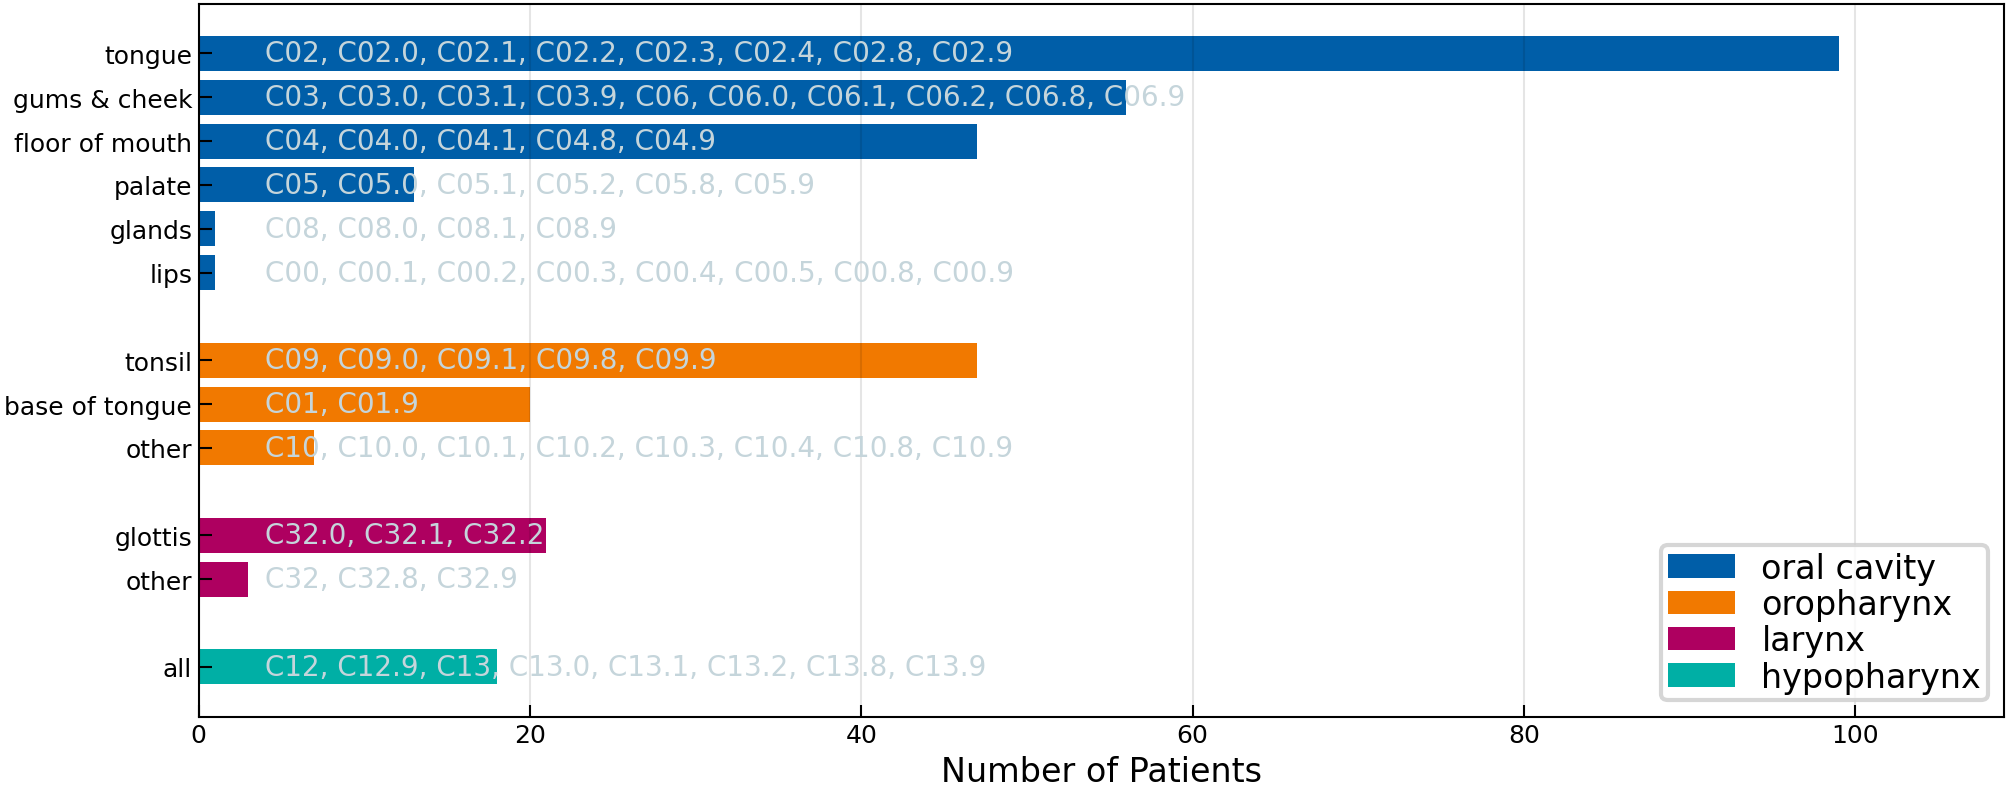
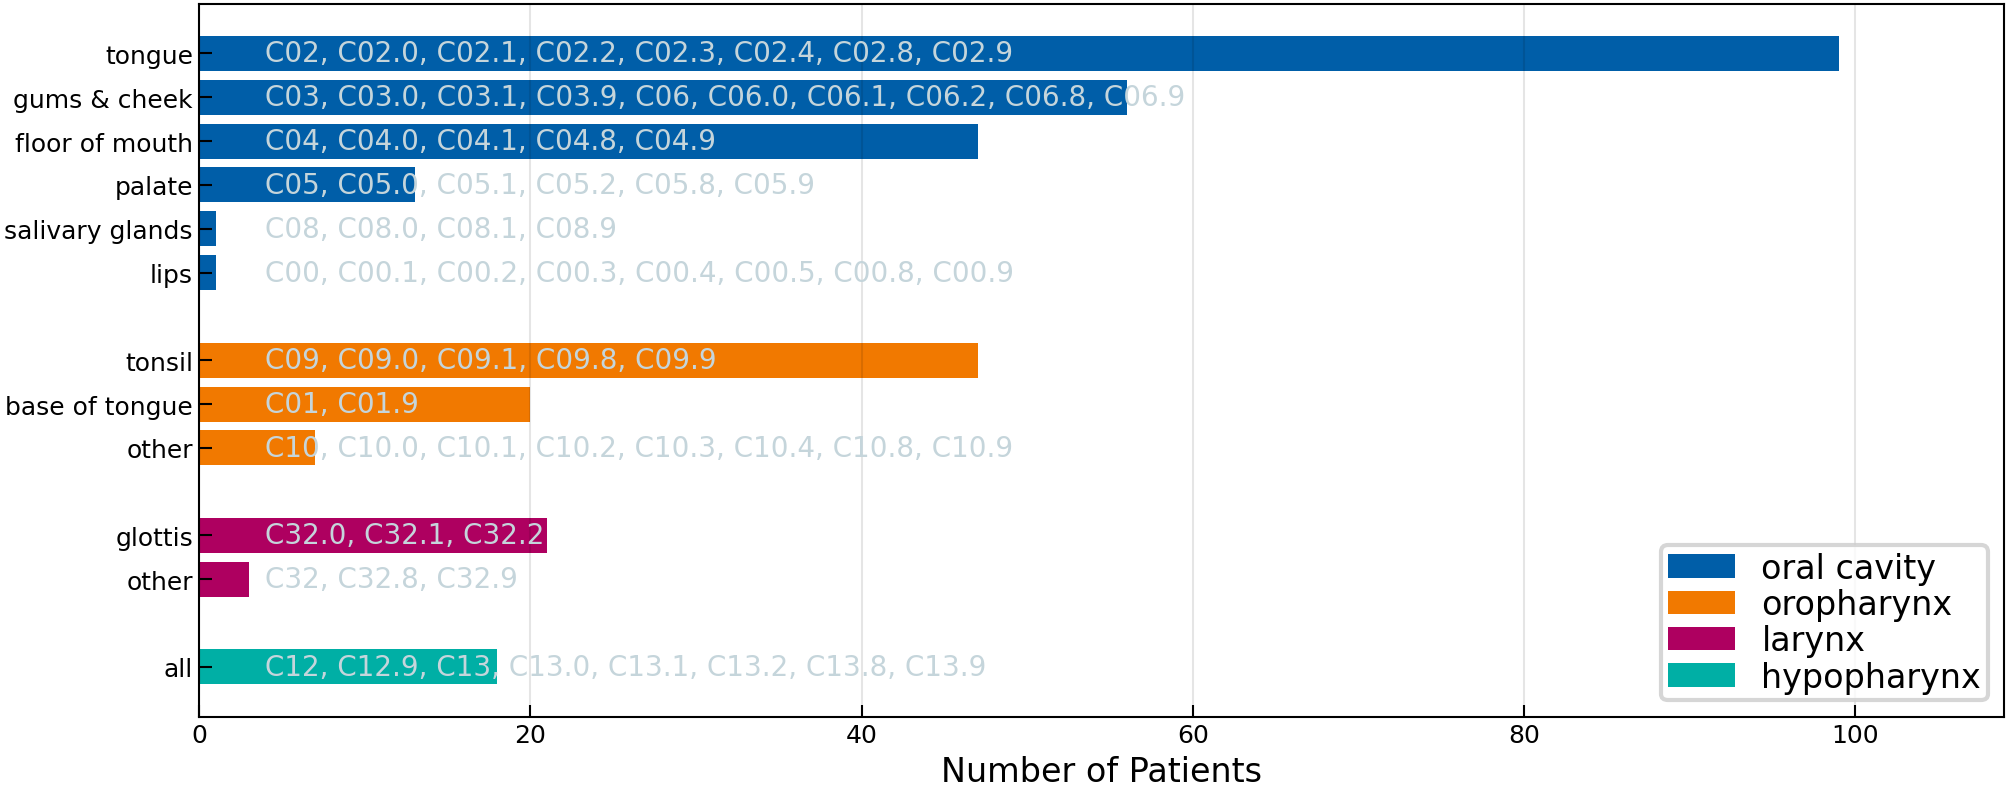
adapt scenario showcase

diff --git a/scripts/scenario_showcase.py b/scripts/scenario_showcase.py
@@ -12,7 +12,7 @@ from tueplots import figsizes, fontsizes
 
 from lyscripts.plot.utils import COLORS
 
-from subsite import INVERTED_FLAT_SUBSITE_DICT
+from subsite import INVERTED_FLAT_SUBSITE_DICT, SUBSITE_DICT
 
 
 def get_idx(df: pd.DataFrame, location: str) -> pd.Series:
@@ -23,7 +23,7 @@ def get_idx(df: pd.DataFrame, location: str) -> pd.Series:
 
 
 OUTPUT_PATH = Path(__file__).parent.parent / Path(__file__).with_suffix(".png").name
-NROWS, NCOLS = 3, 1
+NROWS, NCOLS = 2, 1
 COLORS = [COLORS["green"], COLORS["blue"], COLORS["orange"], COLORS["red"]]
 
 
@@ -48,50 +48,89 @@ if __name__ == "__main__":
 
     data = pd.read_csv(args.data, header=[0, 1, 2])
     ipsi_involvement = data["max_llh", "ipsi"]
+    icd_codes = data["tumor", "1", "subsite"]
 
     has_II_involved = ipsi_involvement["II"] == True
     has_III_involved = ipsi_involvement["III"] == True
     is_t_stage = lambda t: data["tumor", "1", "t_stage"] == t
     is_location = lambda loc: get_idx(data, loc)
+    is_gums_and_cheek = icd_codes.isin(SUBSITE_DICT["oral cavity"]["gums & cheek"])
+    is_tongue = icd_codes.isin(SUBSITE_DICT["oral cavity"]["tongue"])
 
-    for i, loc in enumerate(["oropharynx", "oral cavity", "hypopharynx"]):
-        starts = np.zeros(3, dtype=int)
-        nums = np.zeros(3, dtype=int)
-        totals = np.array([
-            is_location(loc).sum(),
-            (is_location(loc) & has_II_involved).sum(),
-            (is_location(loc) & ~has_II_involved).sum(),
+    loc = "oropharynx"
+    starts = np.zeros(3, dtype=int)
+    nums = np.zeros(3, dtype=int)
+    totals = np.array([
+        (is_location(loc) & ~is_t_stage(0)).sum(),
+        (is_location(loc) & ~is_t_stage(0) & has_II_involved).sum(),
+        (is_location(loc) & ~is_t_stage(0) & ~has_II_involved).sum(),
+    ])
+    for t in [1, 2, 3, 4]:
+        starts += nums
+        nums = np.array([
+            (is_location(loc) & is_t_stage(t) & has_III_involved).sum(),
+            (is_location(loc) & is_t_stage(t) & has_II_involved & has_III_involved).sum(),
+            (is_location(loc) & is_t_stage(t) & ~has_II_involved & has_III_involved).sum(),
         ])
-        for t in [1, 2, 3, 4]:
-            starts += nums
-            nums = np.array([
-                (is_location(loc) & is_t_stage(t) & has_III_involved).sum(),
-                (is_location(loc) & is_t_stage(t) & has_II_involved & has_III_involved).sum(),
-                (is_location(loc) & is_t_stage(t) & ~has_II_involved & has_III_involved).sum(),
-            ])
-            ax[i].barh(
-                y=[2, 1, 0],
-                width=100 * nums / totals,
-                left=100 * starts / totals,
-                color=COLORS[t - 1],
-                label=f"T{t}",
-            )
-            ax[i].set_title(loc, fontweight="bold")
-            ax[i].set_yticks(
-                ticks=[0, 1, 2],
-                labels= [ "LNL II healthy", "LNL II involved", "overall"],
-            )
+        ax[0].barh(
+            y=[2, 1, 0],
+            width=100 * nums / totals,
+            left=100 * starts / totals,
+            color=COLORS[t - 1],
+            label=f"T{t}",
+        )
+        ax[0].set_title(loc, fontweight="bold")
+        ax[0].set_yticks(
+            ticks=[0, 1, 2],
+            labels= [ "LNL II healthy", "LNL II involved", "overall"],
+        )
 
-        ends = starts + nums
-        for j, end in enumerate(ends):
-            ax[i].text(
-                x=100 * (ends / totals)[j] + 1,
-                y=2 - j - 0.13,
-                s=f"{str(end)} / {str(totals[j])}",
-            )
+    ends = starts + nums
+    for j, end in enumerate(ends):
+        ax[0].text(
+            x=100 * (ends / totals)[j] + 1,
+            y=2 - j - 0.13,
+            s=f"{str(end)} / {str(totals[j])}",
+        )
 
-        ax[1].legend(fontsize="medium")
-        ax[-1].set_xlabel("Percentage of Patients")
-        ax[-1].set_xlim(0, 55)
+    loc = "oral cavity"
+    starts = np.zeros(3, dtype=int)
+    nums = np.zeros(3, dtype=int)
+    totals = np.array([
+        (is_location(loc) & ~is_t_stage(0)).sum(),
+        (is_location(loc) & ~is_t_stage(0) & is_gums_and_cheek).sum(),
+        (is_location(loc) & ~is_t_stage(0) & is_tongue).sum(),
+    ])
+    for t in [1, 2, 3, 4]:
+        starts += nums
+        nums = np.array([
+            (is_location(loc) & is_t_stage(t) & has_III_involved).sum(),
+            (is_location(loc) & is_t_stage(t) & is_gums_and_cheek & has_III_involved).sum(),
+            (is_location(loc) & is_t_stage(t) & is_tongue & has_III_involved).sum(),
+        ])
+        ax[1].barh(
+            y=[2, 1, 0],
+            width=100 * nums / totals,
+            left=100 * starts / totals,
+            color=COLORS[t - 1],
+            label=f"T{t}",
+        )
+        ax[1].set_title(loc, fontweight="bold")
+        ax[1].set_yticks(
+            ticks=[0, 1, 2],
+            labels= ["tongue tumor", "tumor in gums/cheek", "overall"],
+        )
+
+    ends = starts + nums
+    for j, end in enumerate(ends):
+        ax[1].text(
+            x=100 * (ends / totals)[j] + 1,
+            y=2 - j - 0.13,
+            s=f"{str(end)} / {str(totals[j])}",
+        )
+
+    ax[1].legend(fontsize="medium")
+    ax[1].set_xlabel("Percentage of Patients")
+    ax[1].set_xlim(0, 40)
 
     plt.savefig(OUTPUT_PATH, dpi=300)

diff --git a/scripts/subsite.py b/scripts/subsite.py
@@ -50,7 +50,7 @@ SUBSITE_DICT = {
                             "C06"  , "C06.0", "C06.1", "C06.2", "C06.8", "C06.9",],
         "floor of mouth":  ["C04"  , "C04.0", "C04.1", "C04.8", "C04.9",],
         "palate":          ["C05"  , "C05.0", "C05.1", "C05.2", "C05.8", "C05.9",],
-        "glands":          ["C08"  , "C08.0", "C08.1", "C08.9",],
+        "salivary glands": ["C08"  , "C08.0", "C08.1", "C08.9",],
     },
 }
 FLAT_SUBSITE_DICT = flatten(SUBSITE_DICT)
